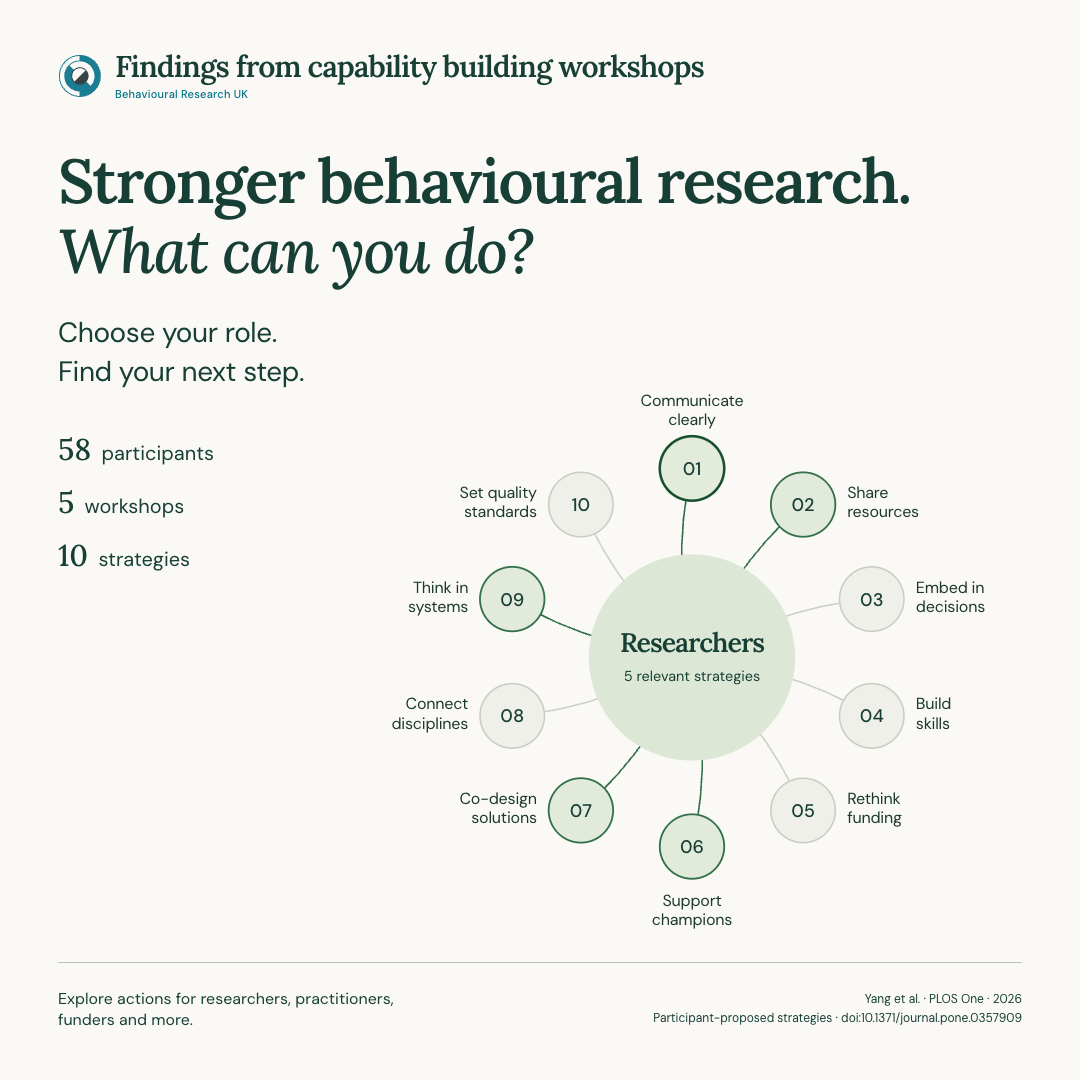
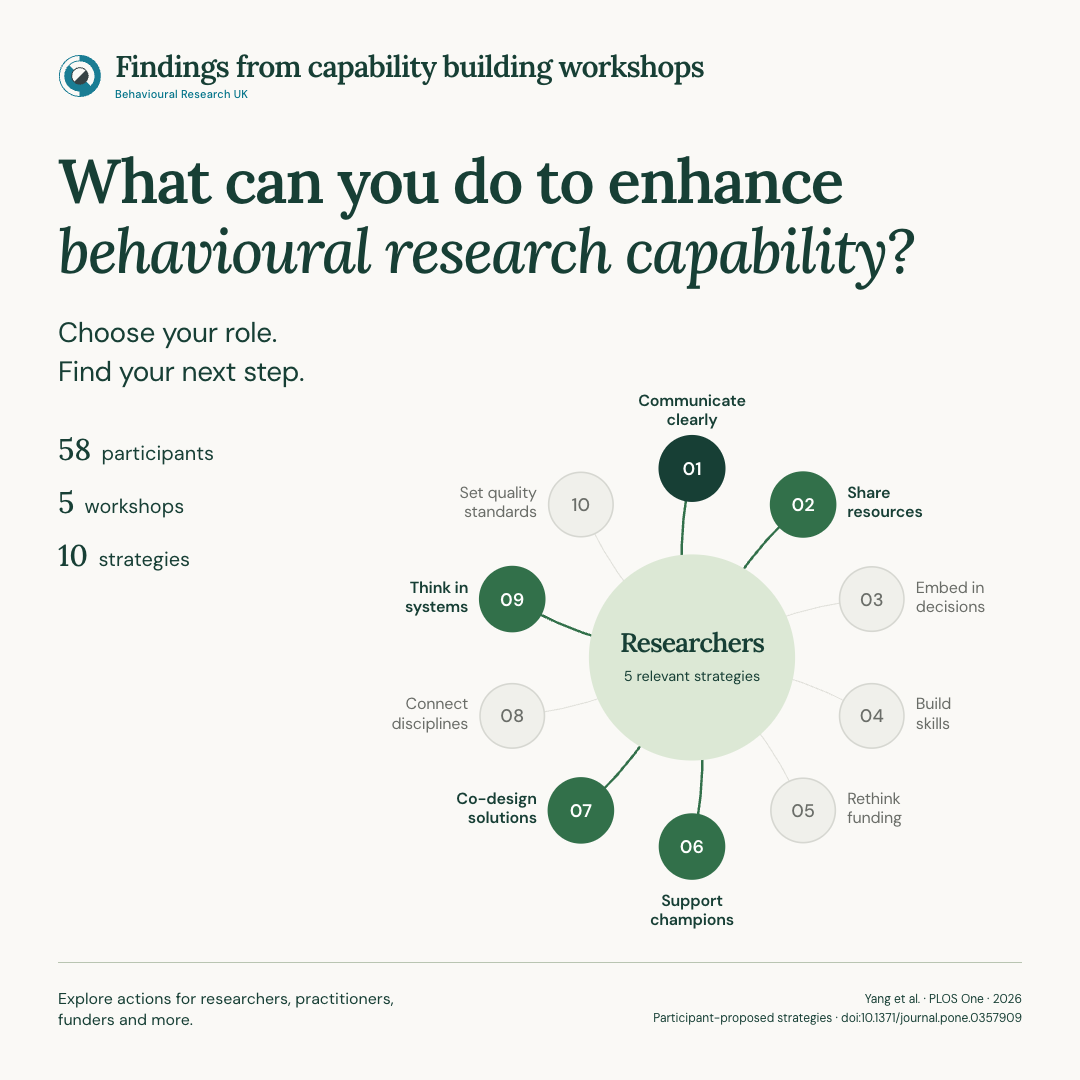
Focus the headline on enhancing behavioural research capability

diff --git a/index.html b/index.html
@@ -6,12 +6,12 @@
     <meta name="theme-color" content="#faf9f6" />
     <meta
       name="description"
-      content="What can you do to strengthen UK behavioural research? Choose your role and explore 10 participant-proposed strategies from Yang et al., PLOS One (2026)."
+      content="What can you do to enhance behavioural research capability? Choose your role and explore 10 participant-proposed strategies from Yang et al., PLOS One (2026)."
     />
     <meta property="og:type" content="website" />
     <meta
       property="og:title"
-      content="Stronger behavioural research. What can you do?"
+      content="What can you do to enhance behavioural research capability?"
     />
     <meta
       property="og:description"
@@ -21,7 +21,7 @@
     <meta property="og:image:height" content="627" />
     <meta
       property="og:image:alt"
-      content="Stronger behavioural research. What can you do? An action map connecting ten strategies. Based on five UK workshops with 58 participants."
+      content="What can you do to enhance behavioural research capability? An action map connecting ten strategies. Based on five UK workshops with 58 participants."
     />
     <meta name="twitter:card" content="summary_large_image" />
     <link rel="icon" type="image/svg+xml" href="/favicon.svg" />

diff --git a/src/App.tsx b/src/App.tsx
@@ -71,9 +71,8 @@ export default function App() {
           <section className="hero" aria-labelledby="page-title">
             <div className="hero-copy">
               <h1 id="page-title">
-                Stronger behavioural research.
-                <br />
-                <em>What can you do?</em>
+                What can you do to enhance{" "}
+                <em>behavioural research capability?</em>
               </h1>
               <p>
                 Choose your role. Explore the strategies. Find your next step.

diff --git a/tests/explorer.spec.ts b/tests/explorer.spec.ts
@@ -41,7 +41,7 @@ test("loads a meaningful screen with no runtime or asset errors", async ({
   await page.evaluate(() => document.fonts.ready);
   await expect(page).toHaveTitle("Research into action | Behavioural research");
   await expect(page.getByRole("heading", { level: 1 })).toContainText(
-    "What can you do?",
+    "What can you do to enhance behavioural research capability?",
   );
   await expect(
     page.getByRole("heading", {

diff --git a/src/components/SocialCard.tsx b/src/components/SocialCard.tsx
@@ -11,9 +11,7 @@ export function SocialCard({ square }: { square: boolean }) {
       <div className="social-content">
         <div className="social-message">
           <h1>
-            Stronger behavioural research.
-            <br />
-            <em>What can you do?</em>
+            What can you do to enhance <em>behavioural research capability?</em>
           </h1>
           <p>
             Choose your role.

diff --git a/src/styles.css b/src/styles.css
@@ -164,6 +164,7 @@ button:active {
 }
 h1 {
   font-family: var(--serif);
+  text-wrap: balance;
   font-size: clamp(38px, 3.5vw, 54px);
   font-weight: 600;
   line-height: 1.08;

diff --git a/linkedin-post.md b/linkedin-post.md
@@ -1,6 +1,6 @@
 # Suggested LinkedIn post
 
-What can you do to strengthen behavioural research?
+What can you do to enhance behavioural research capability?
 
 Our new PLOS One paper brings together insights from 58 participants across five UK workshops, involving academia, government, public and third sectors, and the private sector.
 
@@ -24,4 +24,4 @@ Attach `public/linkedin-post.png` (1080 × 1080). Replace the bold placeholder a
 
 Suggested alt text:
 
-“Stronger behavioural research. What can you do?” Research into action, based on a UK study with 58 participants in five workshops. A circular map shows ten strategies. The example researcher view highlights communicating clearly, sharing resources, supporting champions, co-designing solutions, and thinking in systems. Readers are invited to choose their role and find a next step. Yang et al., PLOS One, 2026.
+“What can you do to enhance behavioural research capability?” Research into action, based on a UK study with 58 participants in five workshops. A circular map shows ten strategies. The example researcher view highlights communicating clearly, sharing resources, supporting champions, co-designing solutions, and thinking in systems. Readers are invited to choose their role and find a next step. Yang et al., PLOS One, 2026.
